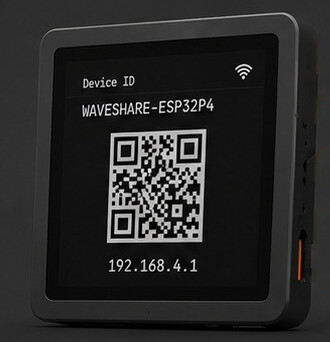
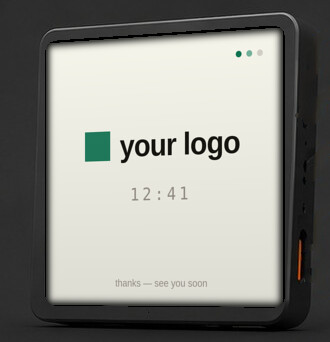
angled device with branded idle screen; single shot again

diff --git a/assets/style.css b/assets/style.css
@@ -103,7 +103,7 @@ input { font: inherit; }
 .hero-sub p { margin-top: 22px; max-width: 58ch; font-size: 17px; line-height: 1.5; color: var(--body); }
 
 /* ---------- meet the box ---------- */
-.meet-cols { display: grid; grid-template-columns: 470px 1fr; }
+.meet-cols { display: grid; grid-template-columns: 320px 1fr; }
 .meet-device { padding: 30px 26px; border-right: 2px solid var(--ink); background: var(--panel); display: flex; flex-direction: column; align-items: center; gap: 10px; }
 .device-hero { width: 190px; height: 190px; background: var(--ink); padding: 11px; box-shadow: 0 14px 24px -10px rgba(22, 21, 15, .4); }
 .device-hero .screen { position: relative; width: 100%; height: 100%; background: #fff; overflow: hidden; }
@@ -112,8 +112,7 @@ input { font: inherit; }
 .device-hero .qr { position: absolute; left: 50%; top: 40px; margin-left: -46px; width: 92px; height: 92px; }
 .device-hero .cap { position: absolute; left: 0; right: 0; bottom: 10px; text-align: center; font: 400 8px var(--sans); color: var(--muted); }
 .counter-line { width: 230px; height: 9px; background: #c9c5bc; }
-.render-pair { display: flex; gap: 10px; justify-content: center; }
-.render-img { height: clamp(130px, 24vw, 212px); width: auto; border: 2px solid var(--ink); background: #eceade; }
+.render-img { width: 100%; max-width: 268px; height: auto; border: 2px solid var(--ink); background: #eceade; }
 .meet-copy { padding: 34px 0 34px 30px; display: flex; flex-direction: column; justify-content: center; }
 .meet-copy h2 { font-size: clamp(24px, 3.6vw, 30px); line-height: .95; }
 .meet-copy p { margin-top: 14px; max-width: 54ch; font-size: 15.5px; line-height: 1.5; color: var(--body); }

diff --git a/index.html b/index.html
@@ -51,11 +51,8 @@
 <section class="meet rule-b">
 <div class="wrap meet-cols">
 <div class="meet-device">
-<div class="render-pair">
-<img class="render-img" src="assets/device-angled.jpg" alt="The ditto box at a slight angle — a palm-sized square touch screen, shown here on its out-of-the-box setup screen" width="330" height="342">
-<img class="render-img" src="assets/device-front.jpg" alt="The ditto box straight on, showing its out-of-the-box setup screen" width="370" height="430">
-</div>
-<span class="mono-note mono-up">the box itself — fresh out of the box, on its setup screen</span>
+<img class="render-img" src="assets/device-angled.jpg" alt="The ditto box at a slight angle — a palm-sized square touch screen idling with a shop's logo and the time" width="330" height="342">
+<span class="mono-note mono-up">the box itself — idling with your brand between customers</span>
 </div>
 <div class="meet-copy">
 <h2 class="display">yes — it's a real little box on your counter.</h2>
